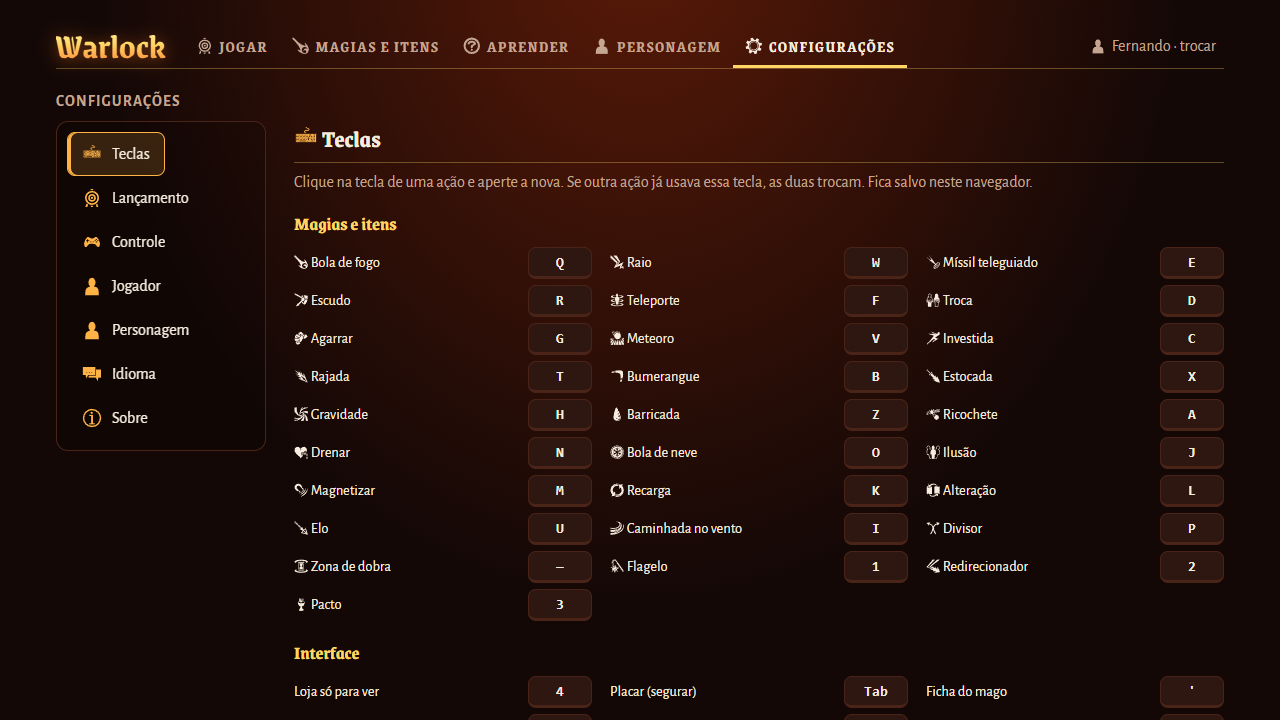
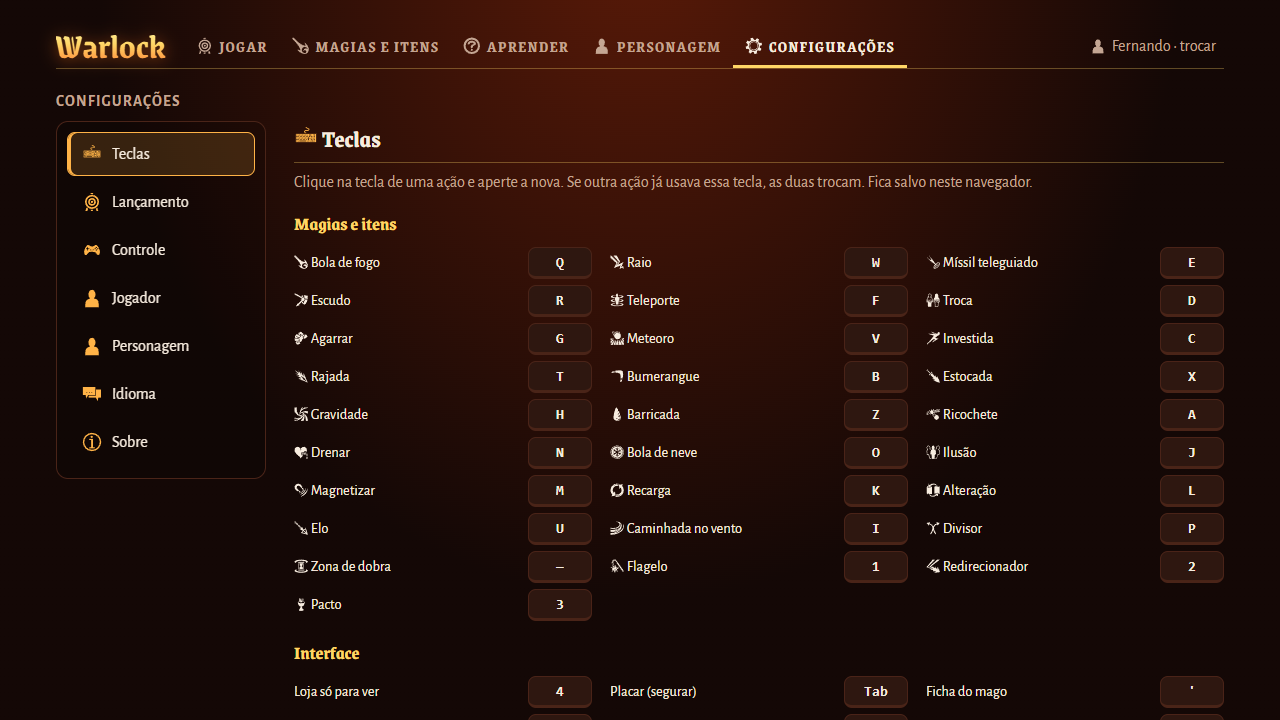
fix: sumário das Configurações reabre ao girar o celular e tecla esperada só vale com a página montada

Changed region(s): [[0.0625, 0.2444, 0.1562, 0.6417], [0.125, 0.1833, 0.2188, 0.2444]]

diff --git a/src/client/style.css b/src/client/style.css
@@ -934,8 +934,9 @@ body.replaying .peek-shop { display: none; }
 /* Configurações em página única (issue #59, como as opções do Dota 2): sumário fixo à esquerda, seções empilhadas com o CSS do diálogo */
 .home-settings { align-items: stretch; }
 .home-settings-grid { display: grid; grid-template-columns: 210px minmax(0, 1fr); gap: 28px; align-items: start; }
-.home-toc { position: sticky; top: 16px; display: flex; flex-direction: column; gap: 4px; padding: 10px; border: 1px solid var(--line); border-radius: var(--r-md); background: rgba(0, 0, 0, .18); }
+.home-toc { position: sticky; top: 16px; padding: 10px; border: 1px solid var(--line); border-radius: var(--r-md); background: rgba(0, 0, 0, .18); }
 .home-toc summary { display: none; }
+.home-toc button { display: flex; width: 100%; margin-bottom: 4px; }
 .home-sections { display: flex; flex-direction: column; gap: 32px; }
 .home-sections .settings-body { overflow: visible; padding: 0; scroll-margin-top: 16px; }
 .home-sections .settings-page-title { padding-bottom: 6px; border-bottom: 1px solid var(--gold-line); }
@@ -948,9 +949,9 @@ body.replaying .peek-shop { display: none; }
   .home-tabs button { padding: 8px 9px 6px; font-size: .9rem; letter-spacing: .04em; }
   /* celular: o sumário vira "Sumário" recolhível, colado no topo enquanto rola */
   .home-settings-grid { grid-template-columns: minmax(0, 1fr); gap: 20px; }
-  .home-toc { top: 0; z-index: 3; display: block; padding: 0 10px; background: var(--panel-solid); }
+  .home-toc { top: 0; z-index: 3; padding: 0 10px; background: var(--panel-solid); }
   .home-toc summary { display: list-item; min-height: 44px; padding: 11px 4px; font-family: var(--display); color: var(--gold); cursor: pointer; }
-  .home-toc button { display: flex; width: 100%; min-height: 44px; margin-bottom: 4px; }
+  .home-toc button { min-height: 44px; }
   .home-sections .settings-body { scroll-margin-top: 60px; }
 }
 

diff --git a/src/client/settings.ts b/src/client/settings.ts
@@ -272,6 +272,7 @@ export function settingsPage(): HTMLElement {
   homeBody = el('div', { class: 'home-sections' });
   const narrow = matchMedia('(max-width: 600px)');
   const toc = el('details', { class: 'home-toc', open: !narrow.matches }, el('summary', {}, t('Sumário', 'Contents')));
+  narrow.addEventListener('change', (e) => (toc.open = !e.matches)); // girar o celular: no PC o sumário fica sempre aberto
   const mark = (id: string) => toc.querySelectorAll('button').forEach((b) => b.classList.toggle('on', b.dataset.id === id));
   // a seção que passa pela faixa de cima da tela é a destacada; depois de um clique no sumário, o destaque fica na escolhida
   // enquanto a página rola (as últimas seções nem sempre chegam ao topo)
@@ -358,7 +359,7 @@ function onKey(e: KeyboardEvent) {
   }
 }
 // página do menu inicial esperando tecla ou botão: a próxima tecla é dela (com o diálogo aberto, vale o ouvinte dele)
-addEventListener('keydown', (e) => !overlay && (waiting || padWaiting) && onKey(e), { capture: true });
+addEventListener('keydown', (e) => !overlay && homeBody?.isConnected && (waiting || padWaiting) && onKey(e), { capture: true });
 function close() {
   if (!overlay) return;
   waiting = null;
